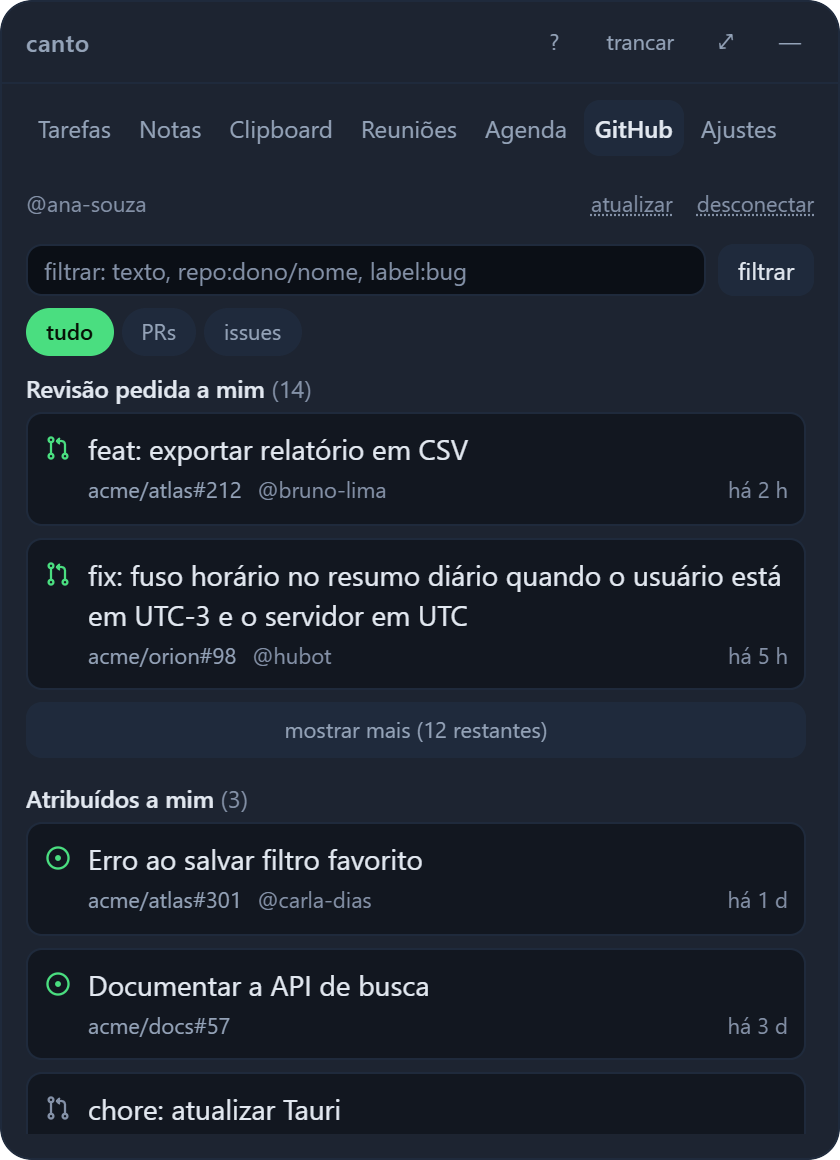
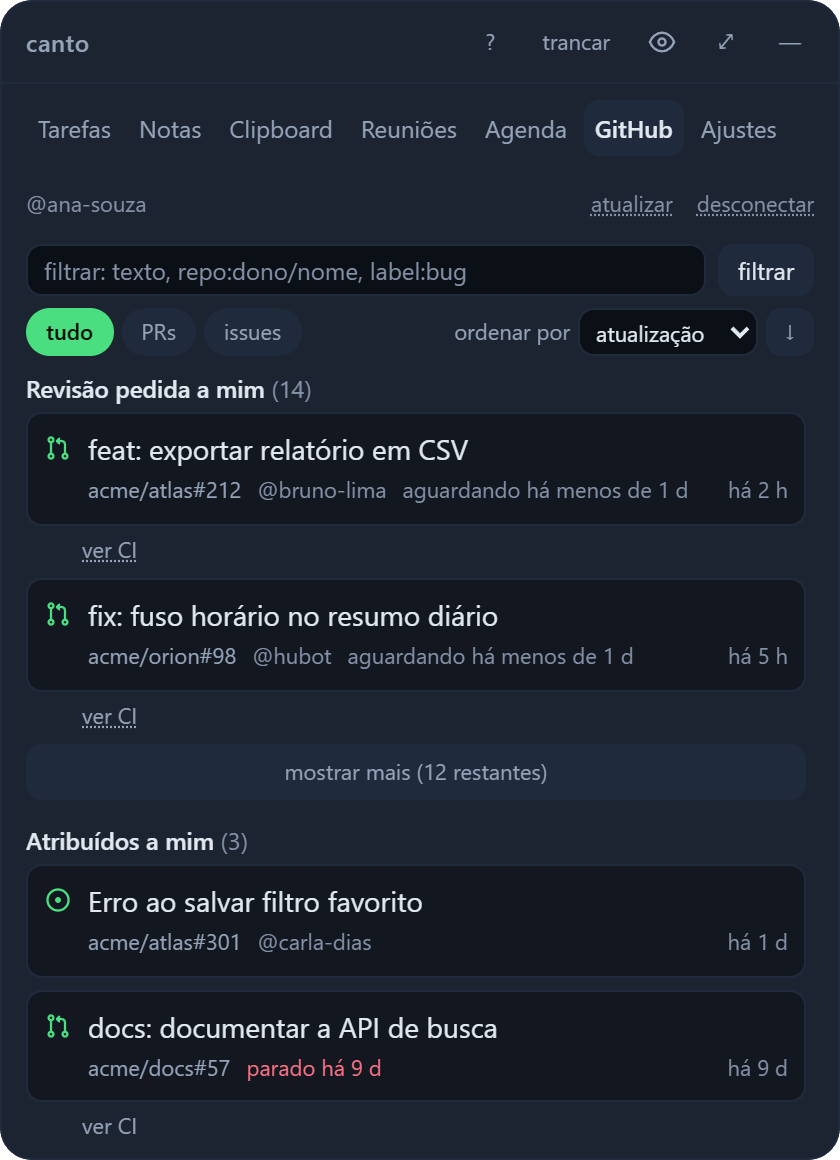
docs: document note checklists, code blocks and stalled PRs
README and CHANGELOG describe the new behavior, and the GitHub and notes
screenshots show it with fictitious data (IPC mocked, no vault touched).

Claude-Session: https://claude.ai/code/session_01W6sb8vEdyMGtjiyuvfWDXo

diff --git a/README.md b/README.md
@@ -84,8 +84,9 @@ Click the event to see who organized it, the agenda, the guests and attachments,
 
 ### 🗒 Notes as cards
 
-Searchable cards with `#tags`, pin to top and one-click tag filter. Handles thousands of notes: the list is
-paged and search covers all of them.
+Searchable cards with `#tags`, pin to top and one-click tag filter. Markdown with `- [ ]` checklists you tick
+in the preview and fenced code blocks with syntax highlighting. Handles thousands of notes: the list is paged
+and search covers all of them.
 
 </td>
 </tr>
@@ -102,13 +103,14 @@ sensitive.
 <td><img src="docs/prints/app/03-clipboard.png" alt="Clipboard history with a link, a large log and code"></td>
 </tr>
 <tr>
-<td><img src="docs/prints/app/05-github.png" alt="GitHub tab with review requested, assigned and open PRs"></td>
+<td><img src="docs/prints/app/05-github.png" alt="GitHub tab with review requested, assigned and a stalled PR"></td>
 <td>
 
 ### 🐙 Your GitHub at a glance
 
 **Review requested from me**, assigned to me, PRs and issues I opened, with a PR or issue icon and who opened
-it. Filter by text, `repo:` or `label:`, PRs only or issues only, sort by update, creation or comments, and
+it. Drafts, PRs **waiting for your review** and PRs **stalled** for a week stand out, and CI status is one
+click away. Filter by text, `repo:` or `label:`, PRs only or issues only, sort by update, creation or comments, and
 scroll with **show more**. Also supports **GitLab.com and self-hosted GitLab**, with a 5-minute cache that
 respects the rate limit. Sign in with a read-only personal token or from the browser (device flow).
 
@@ -160,7 +162,7 @@ And **Follow system**, which switches between light and dark along with the OS. 
 
 | Task with subtasks, priority and PR | Note in markdown | More clipboard types | Security: auto-lock and unlocks |
 |---|---|---|---|
-| ![Checklist, priority and PR link on a task](docs/prints/app/23-tarefas-detalhes.png) | ![Note rendered in markdown linked to a task](docs/prints/app/24-notas-markdown.png) | ![Clipboard recognizing link, color, json, e-mail and phone](docs/prints/app/25-clipboard-tipos.png) | ![Configurable auto-lock and a log of the latest unlocks](docs/prints/app/26-ajustes-seguranca.png) |
+| ![Checklist, priority and PR link on a task](docs/prints/app/23-tarefas-detalhes.png) | ![Note in markdown with a checklist and a highlighted SQL block](docs/prints/app/24-notas-markdown.png) | ![Clipboard recognizing link, color, json, e-mail and phone](docs/prints/app/25-clipboard-tipos.png) | ![Configurable auto-lock and a log of the latest unlocks](docs/prints/app/26-ajustes-seguranca.png) |
 
 | Synced folder | Compact density | Locked vault | Connect GitHub |
 |---|---|---|---|

diff --git a/CHANGELOG.md b/CHANGELOG.md
@@ -7,6 +7,12 @@ versões em [SemVer](https://semver.org/lang/pt-BR/).
 
 ### Adicionado
 
+- **Checklist nas notas**: linhas `- [ ]` e `- [x]` viram caixas de seleção na visualização; marcar uma
+  atualiza o texto da nota.
+- **Blocos de código nas notas**: trechos entre ```` ``` ```` aparecem como código, sem interpretar o
+  markdown de dentro, e com cores para js/ts, rust, python, shell, sql, json, go e java/c#/c++.
+- **PR parado** nas abas GitHub e GitLab: PR/MR sem atividade há 7 dias ou mais ganha o selo
+  **parado há N d** (a revisão pedida continua mostrando **aguardando**).
 - **Status API: Datadog, Azion e Akamai** entram na lista, com histórico e estado ao vivo (Statuspage).
 - **Idioma: português ou inglês**, em Ajustes > Idioma. "Automático (sistema)" é o padrão: português para
   sistemas em `pt-*`, inglês para os demais. A troca recarrega a interface na hora; notificações do sistema e o
